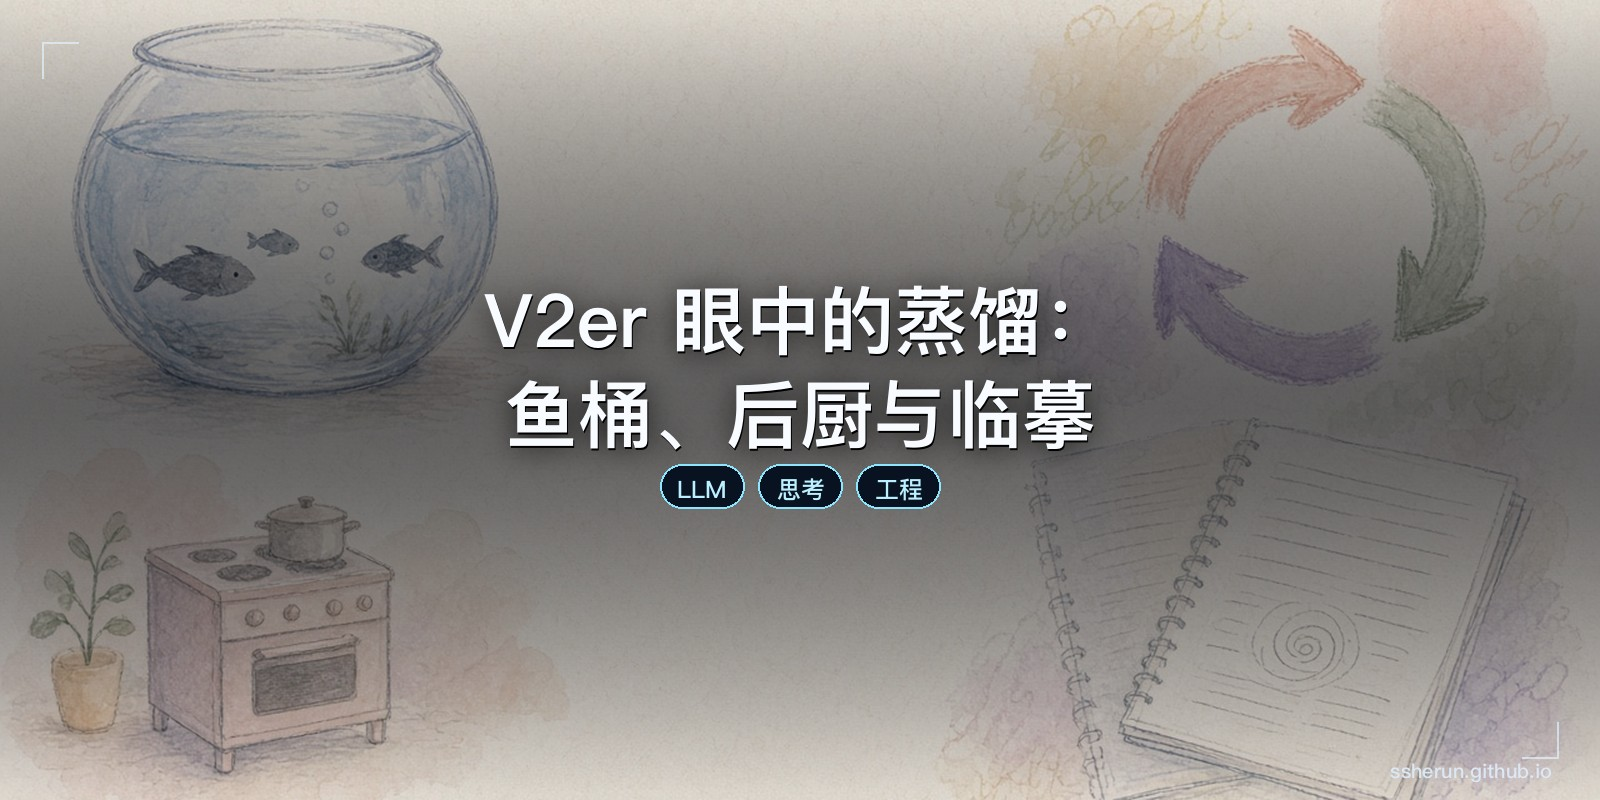
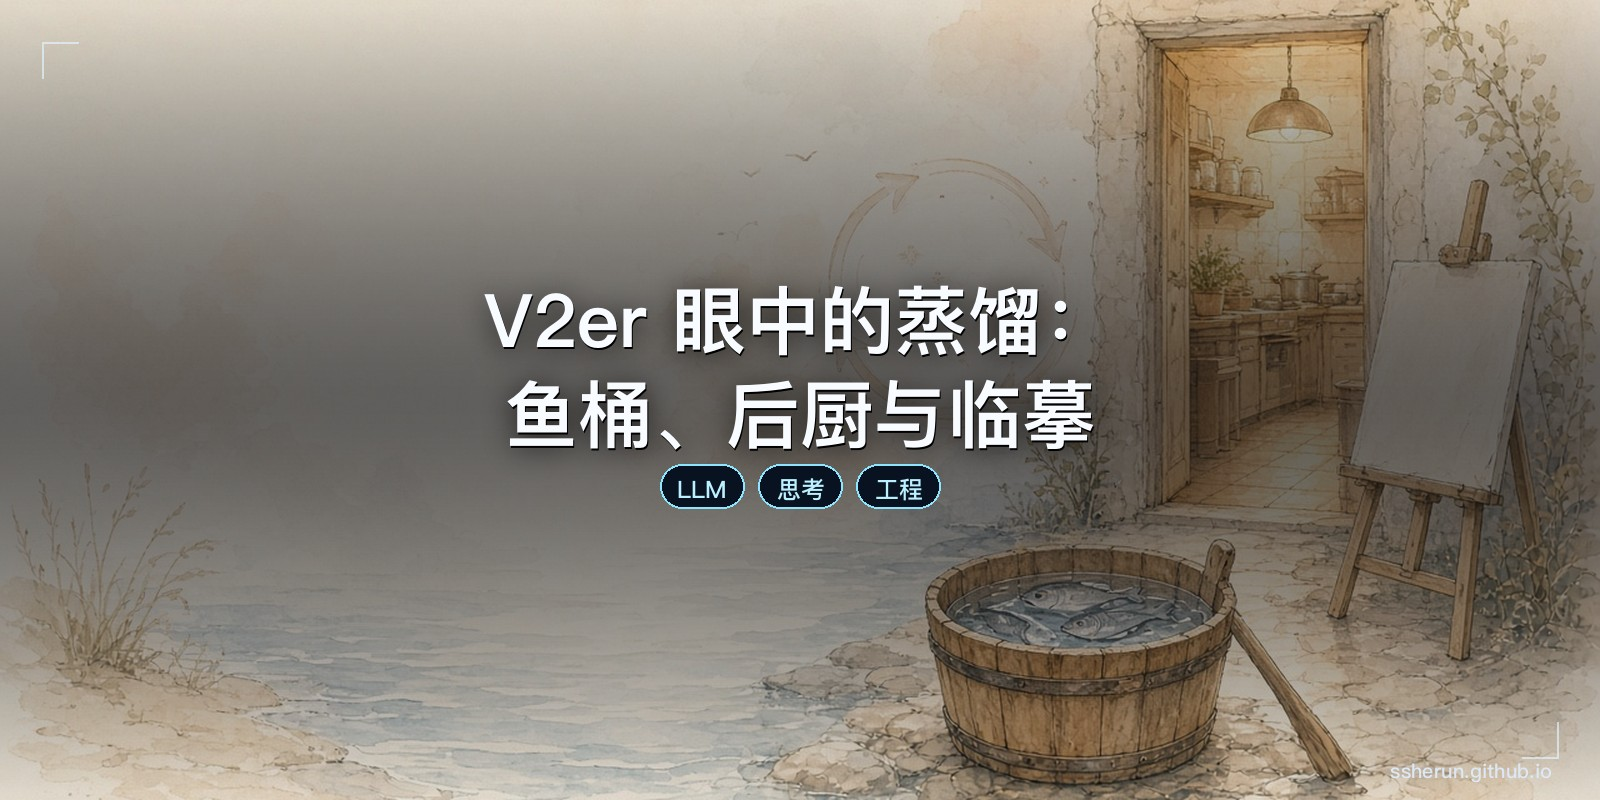
feat: refresh V2er distillation post with metaphor loop diagram
Replace the process diagram with the five-metaphor cycle (ssherun watermark) and expand the fishbowl/kitchen/tracing frames from the V2EX thread.

diff --git a/src/content/blog/v2er-distillation-metaphors.md b/src/content/blog/v2er-distillation-metaphors.md
@@ -1,6 +1,6 @@
 ---
 title: 'V2er 眼中的蒸馏：鱼桶、后厨与临摹'
-description: '整理 V2EX 热帖：蒸馏像不像「钓别人鱼桶里的鱼」？评论区用饭店后厨、临摹、租车拆解等比喻，把技术词砸成可转述的画面。'
+description: '整理 V2EX 热帖：蒸馏像不像「钓别人鱼桶里的鱼」？评论区用饭店后厨、临摹、租车拆解、奶茶配方等比喻，把技术词砸成可转述的画面。'
 pubDate: '2026-09-14'
 heroImage: '../../assets/cover-v2er-distillation-metaphors.jpg'
 tags: ['LLM', '思考', '工程']
@@ -9,21 +9,21 @@ lang: zh
 
 V2EX 有人问：AI 圈天天说的「蒸馏」，是不是就像钓别人鱼桶里的鱼？
 
-技术定义其实不难查。真正值钱的，是评论区把抽象词砸成的那堆**画面**——鱼桶、后厨、临摹、租车、奶茶配方。下面按讨论密度蒸馏一版（不点名具体厂商），方便以后引用。
+技术定义其实不难查。真正值钱的，是评论区把抽象词砸成的那堆**画面**——鱼桶、后厨、临摹、拆车、抄作业、奶茶配方。下面按讨论密度蒸馏一版（不点名具体厂商），方便以后引用。
 
-## 一张图先钉住流程
+## 五张比喻钉在一张图上
 
-![蒸馏五步循环：付费点菜到再当老师](../../assets/inline-v2er-distillation-metaphors-diagram.jpg)
+![V2er 眼中的蒸馏：五个高频比喻](../../assets/inline-v2er-distillation-metaphors-diagram.jpg)
 
-多数比喻其实在讲同一条环：
+这张手绘环不是技术流水线，而是评论区反复出现的**五种说法**：
 
-1. **付费点菜**——调用教师模型，拿到成品输出  
-2. **偷看后厨**——不只看答案，还想还原思维链（CoT）  
-3. **临摹拟合**——把教师输出当标准答案去训练  
-4. **回家开灶**——训出自己的学生模型  
-5. **再当老师**——学生模型继续被下游蒸馏  
+1. **钓桶里的鱼**——楼主原喻；有人说更像「用网捞」  
+2. **临摹别人的画**——输出还在对方手里，你带走的是模仿  
+3. **饭店偷师做菜**——付费点菜，再偷看后厨反推做法  
+4. **拆车仿制**——只租不卖的车，开到工厂拆开学习  
+5. **抄作业省整理**——省掉清洗与试错，直接抄「已经学好的同学」  
 
-底栏那句是评论区共识里最干净的一句：**鱼还在桶里，学走的是做法。**
+底栏那句是共识里最干净的一句：**蒸馏：花钱学到老师的思维，桶里的鱼却还在。**
 
 ## 比喻图谱
 
@@ -31,7 +31,7 @@ V2EX 有人问：AI 圈天天说的「蒸馏」，是不是就像钓别人鱼桶
 |------|------|--------------|
 | 鱼桶：钓 / 用网捞 / 鱼还在 | 很高 | 学走能力，原模型通常还在；「捞」比「钓」更强调批量 |
 | 顶级饭店点菜 → 反推菜谱 / 偷看后厨 | 高 | 付费拿成品，再反推做法 |
-| 临摹别人的画 / 依葫芦画瓢 | 高 | 更像模仿与拟合，不是物理偷走 |
+| 临摹别人的画 / 依葫芦画瓢 / 有样学样 | 高 | 更像模仿与拟合，不是物理偷走 |
 | 老师教课 / 交学费再当老师 | 中高 | 「学习」阵营爱用；反对方强调老师主动教 vs 违 ToS |
 | 租车不卖 → 开到工厂拆开学习 | 中 | 只租不卖的商业模式 vs 逆向学习 |
 | 抄作业 / 考试抄答案 | 中 | 省掉清洗与试错，直接抄「已经学好的同学」 |
@@ -39,6 +39,7 @@ V2EX 有人问：AI 圈天天说的「蒸馏」，是不是就像钓别人鱼桶
 | 奶茶配料比例被分析走 | 中低 | 辛苦调配的秘密配方被还原 |
 | 买车拆开仿制（无专利时代） | 中低 | 仿制本身也要能力；法律未必禁止 |
 | 花钱让你把鱼拿出来拍照 | 低 | 付费拿到快照 ≠ 拿到桶 |
+| 问卷报告被做成新平台再卖 | 低 | 付费看报告 → 再做成竞品平台 |
 | 桶里可能是蜜罐 | 低 | 去别人桶里「钓」有风险 |
 
 ![V2er 眼中的蒸馏讨论氛围](../../assets/inline-v2er-distillation-metaphors-01.jpg)
@@ -47,13 +48,13 @@ V2EX 有人问：AI 圈天天说的「蒸馏」，是不是就像钓别人鱼桶
 
 ### 1. 鱼还在桶里
 
-楼主原喻的破绽，被多人直接点破：蒸馏通常不是把鱼偷走。你学走的是**做法与模式**，对方服务还在。
+楼主原喻的破绽，被多人直接点破：蒸馏通常不是把鱼偷走。你学走的是**做法与模式**，对方服务还在——「可是桶里的鱼仍然在」。
 
-也有人说更像「用网直接捞」——强调批量、高效，而不是一根竿一根竿地钓。另有人补刀：桶里的鱼也可能是**蜜罐**。
+也有人说更像「用网直接捞」——强调批量、高效，而不是一根竿一根竿地钓。另有人补刀：桶里的鱼也可能是**蜜罐**；还有人说「花钱让你把鱼拿出来拍照」——付费快照 ≠ 拿走整桶。
 
 ### 2. 临摹，不是搬家
 
-「临摹别人的画」比「钓鱼」更被认同：输出还在对方手里，你得到的是一份可迁移的模仿结果。
+「临摹别人的画」「依葫芦画瓢」「有样学样」比「钓鱼」更被认同：输出还在对方手里，你得到的是一份可迁移的模仿结果。有人纠正：钓鱼举例不对，因为蒸馏是「你的还在，我把你的学来了」。
 
 ### 3. 饭店点菜 + 偷看后厨
 
@@ -61,11 +62,19 @@ V2EX 有人问：AI 圈天天说的「蒸馏」，是不是就像钓别人鱼桶
 
 补刀也很重要：厨师自己的菜也未必全原创——可能看过烹饪宝典再结合实际。这把「来路不正」的互相指责，也写进了比喻里。
 
-### 4. 技术侧的一句话
+奶茶版同构：你辛辛苦苦调出的配方，对方分析出配料比例直接抄走。
+
+### 4. 租车拆解 vs 只开不拆
+
+有人用「只租不卖的车 → 开到工厂拆开学习」讲商业模式冲突；立刻有人拆穿：按严格类比，未必拆开了，只是在各种场景下开了几十万公里——更接近**行为蒸馏**，不是偷权重。
+
+买车拆开仿制的版本则强调：仿制本身也要能力；只是当下未必有「不准蒸馏」的法案。
+
+### 5. 技术侧的一句话
 
 监督学习：同样输入，拿教师模型输出当「标准答案」去拟合。真正值钱的往往是 **CoT**——只学最终答案，成效有限；各种骚操作是为了还原中间推理。
 
-另一条：早期大模型靠大量人工标注；蒸馏等于让「已经学好的模型」来标注，省掉那一层人力。
+另一条：早期大模型靠大量人工标注；蒸馏等于让「已经学好的模型」来标注，省掉那一层人力。还有人说：蒸馏拿不到目标函数的权重；更狠的是做中继，直接调用别人的 API。
 
 ## 争议不在比喻，在许可边界
 
@@ -78,7 +87,7 @@ V2EX 有人问：AI 圈天天说的「蒸馏」，是不是就像钓别人鱼桶
 - **双标派**：大家都从网上爬数据；只许我抢、不许你从我抢来的东西里再学，说不过去。  
 - **复杂派**：稳定争议本身说明问题复杂，别急着当判官。
 
-租车比喻也被人拆过：按严格类比，未必拆开了车，只是在各种场景下开了几十万公里——这更接近「行为蒸馏」而非「权重盗窃」。
+百科全书比喻把「抄袭」说得很硬：原书也非全原创，但编纂成本被跳过——你上来直接拿结果。反对方则抬出「交学费学完再当老师」：只要花钱买过知识，再教别人是不是也算偷老师？
 
 ## 一句话沉淀
 

diff --git a/src/content/blog/v2er-distillation-metaphors.en.md b/src/content/blog/v2er-distillation-metaphors.en.md
@@ -10,21 +10,21 @@ translationKey: 'v2er-distillation-metaphors'
 
 Someone on V2EX asked: when AI people say “distillation,” is it basically fishing fish out of someone else’s bucket?
 
-The technical definition is easy to look up. What’s useful is how the thread turned an abstract word into **pictures**—fishbowls, restaurant kitchens, tracing, rented cars, bubble-tea formulas. Below is a metaphor-first distillation of that thread (without naming vendors).
+The technical definition is easy to look up. What’s useful is how the thread turned an abstract word into **pictures**—fishbowls, restaurant kitchens, tracing, car teardown, homework copying, bubble-tea formulas. Below is a metaphor-first distillation of that thread (without naming vendors).
 
-## One loop to pin the process
+## Five metaphors on one loop
 
-![Five-step distillation loop: from ordering to teaching](../../assets/inline-v2er-distillation-metaphors-diagram.jpg)
+![Five high-frequency distillation metaphors from V2ers](../../assets/inline-v2er-distillation-metaphors-diagram.jpg)
 
-Most metaphors describe the same cycle:
+This hand-drawn ring is not a training pipeline. It’s the five sayings that kept showing up:
 
-1. **Pay and order** — call a teacher model, get finished outputs  
-2. **Peek into the kitchen** — watch not only answers, but chain-of-thought  
-3. **Trace and fit** — train against teacher outputs as labels  
-4. **Cook at home** — train your own student model  
-5. **Become the teacher** — the student can be distilled further downstream  
+1. **Fishing in someone else’s bucket** — the OP’s metaphor; others prefer “netting the bucket”  
+2. **Tracing someone else’s painting** — the original stays; you leave with imitation  
+3. **Stealing kitchen skills at a restaurant** — pay for the dish, peek at the kitchen, reverse the recipe  
+4. **Tear down a car and clone it** — rent-only cars driven into a factory for reverse engineering  
+5. **Copy homework to skip the hard part** — skip cleaning and trial-and-error; copy the classmate who already learned  
 
-The cleanest line from the thread: **the fish stays in the bucket; what you took is the method.**
+The cleanest banner line: **Distillation: pay to learn the teacher’s thinking; the fish is still in the bucket.**
 
 ## Metaphor map
 
@@ -40,6 +40,7 @@ The cleanest line from the thread: **the fish stays in the bucket; what you took
 | Bubble-tea formula reverse-engineered | Medium-low | A hard-won recipe ratio gets copied |
 | Buy a car, disassemble, clone (pre-patent world) | Medium-low | Cloning still needs skill; law may not ban it |
 | Pay someone to hold up the fish so you can photograph it | Low | A paid snapshot ≠ owning the bucket |
+| Paid survey report rebuilt as a competing platform | Low | Pay to read a report → resell a clone platform |
 | The fish might be honey | Low | Fishing in someone else’s bucket can be a trap |
 
 ![Atmosphere of the V2EX distillation debate](../../assets/inline-v2er-distillation-metaphors-01.jpg)
@@ -48,13 +49,13 @@ The cleanest line from the thread: **the fish stays in the bucket; what you took
 
 ### 1. The fish is still in the bucket
 
-Several people punched the hole in the original metaphor: distillation usually doesn’t remove the fish. You learn **method and pattern**; the other service remains.
+Several people punched the hole in the original metaphor: distillation usually doesn’t remove the fish. You learn **method and pattern**; the other service remains—“but the fish is still in the bucket.”
 
-Others prefer “net the whole bucket”—batch and efficiency. Someone else warns: the fish might be a **honeypot**.
+Others prefer “net the whole bucket”—batch and efficiency. Someone else warns: the fish might be a **honeypot**. Another line: pay someone to hold up the fish for a photo—snapshot ≠ owning the bucket.
 
 ### 2. Tracing, not moving
 
-“Tracing someone’s painting” landed better than “fishing”: the original stays put; you leave with a transferable imitation.
+“Tracing someone’s painting,” “paint by numbers,” and “learn by copying” landed better than “fishing”: the original stays put; you leave with a transferable imitation. One correction: fishing is wrong because distillation means “yours stays; I learned yours.”
 
 ### 3. Ordering at a restaurant + peeking at the kitchen
 
@@ -62,11 +63,19 @@ A high-frequency line: eat at a top restaurant, then reverse-engineer how to coo
 
 The follow-up matters too: the chef’s dish may not be fully original either—maybe they read cookbooks and adapted. Mutual “dirty origin” accusations get baked into the metaphor.
 
-### 4. One technical sentence
+Bubble-tea version: you spent forever dialing in a formula; they reverse the ratios and ship a clone.
+
+### 4. Car teardown vs just driving a lot
+
+One camp uses “rent-only car → factory teardown” for the business-model conflict. Another sharpens it: maybe nobody took the car apart—they just drove hundreds of thousands of kilometers across scenarios. That sounds more like **behavior distillation** than weight theft.
+
+The buy-and-clone version stresses: cloning still needs skill; there may simply be no statute that bans distillation yet.
+
+### 5. One technical sentence
 
 Supervised learning: same inputs, fit the student to the teacher’s outputs as ground truth. What often matters most is **CoT**—final answers alone don’t transfer well; tricks exist specifically to recover intermediate reasoning.
 
-Another line: early LLMs paid for massive human labeling; distillation lets an already-good model do the labeling.
+Another line: early LLMs paid for massive human labeling; distillation lets an already-good model do the labeling. Someone else notes: distillation doesn’t steal the objective’s weights; the harsher move is a proxy that just calls someone else’s API.
 
 ## The fight isn’t about metaphors. It’s about permission.
 
@@ -79,7 +88,7 @@ Four camps showed up:
 - **Double-standard**: Everyone scrapes the web; “I may grab, you may not learn from what I grabbed” doesn’t hold.  
 - **Complexity**: Stable controversy means don’t rush to play judge.
 
-The rental-car metaphor also got sharpened: maybe nobody took the car apart—they just drove hundreds of thousands of kilometers across scenarios. That sounds more like **behavior distillation** than weight theft.
+The encyclopedia metaphor hardens “plagiarism”: the source wasn’t fully original either, but curation cost gets skipped—you take the finished entries. The other side lifts “pay tuition, then become a teacher”: if you paid for knowledge, is teaching others also stealing from your teacher?
 
 ## One-line takeaway
 
